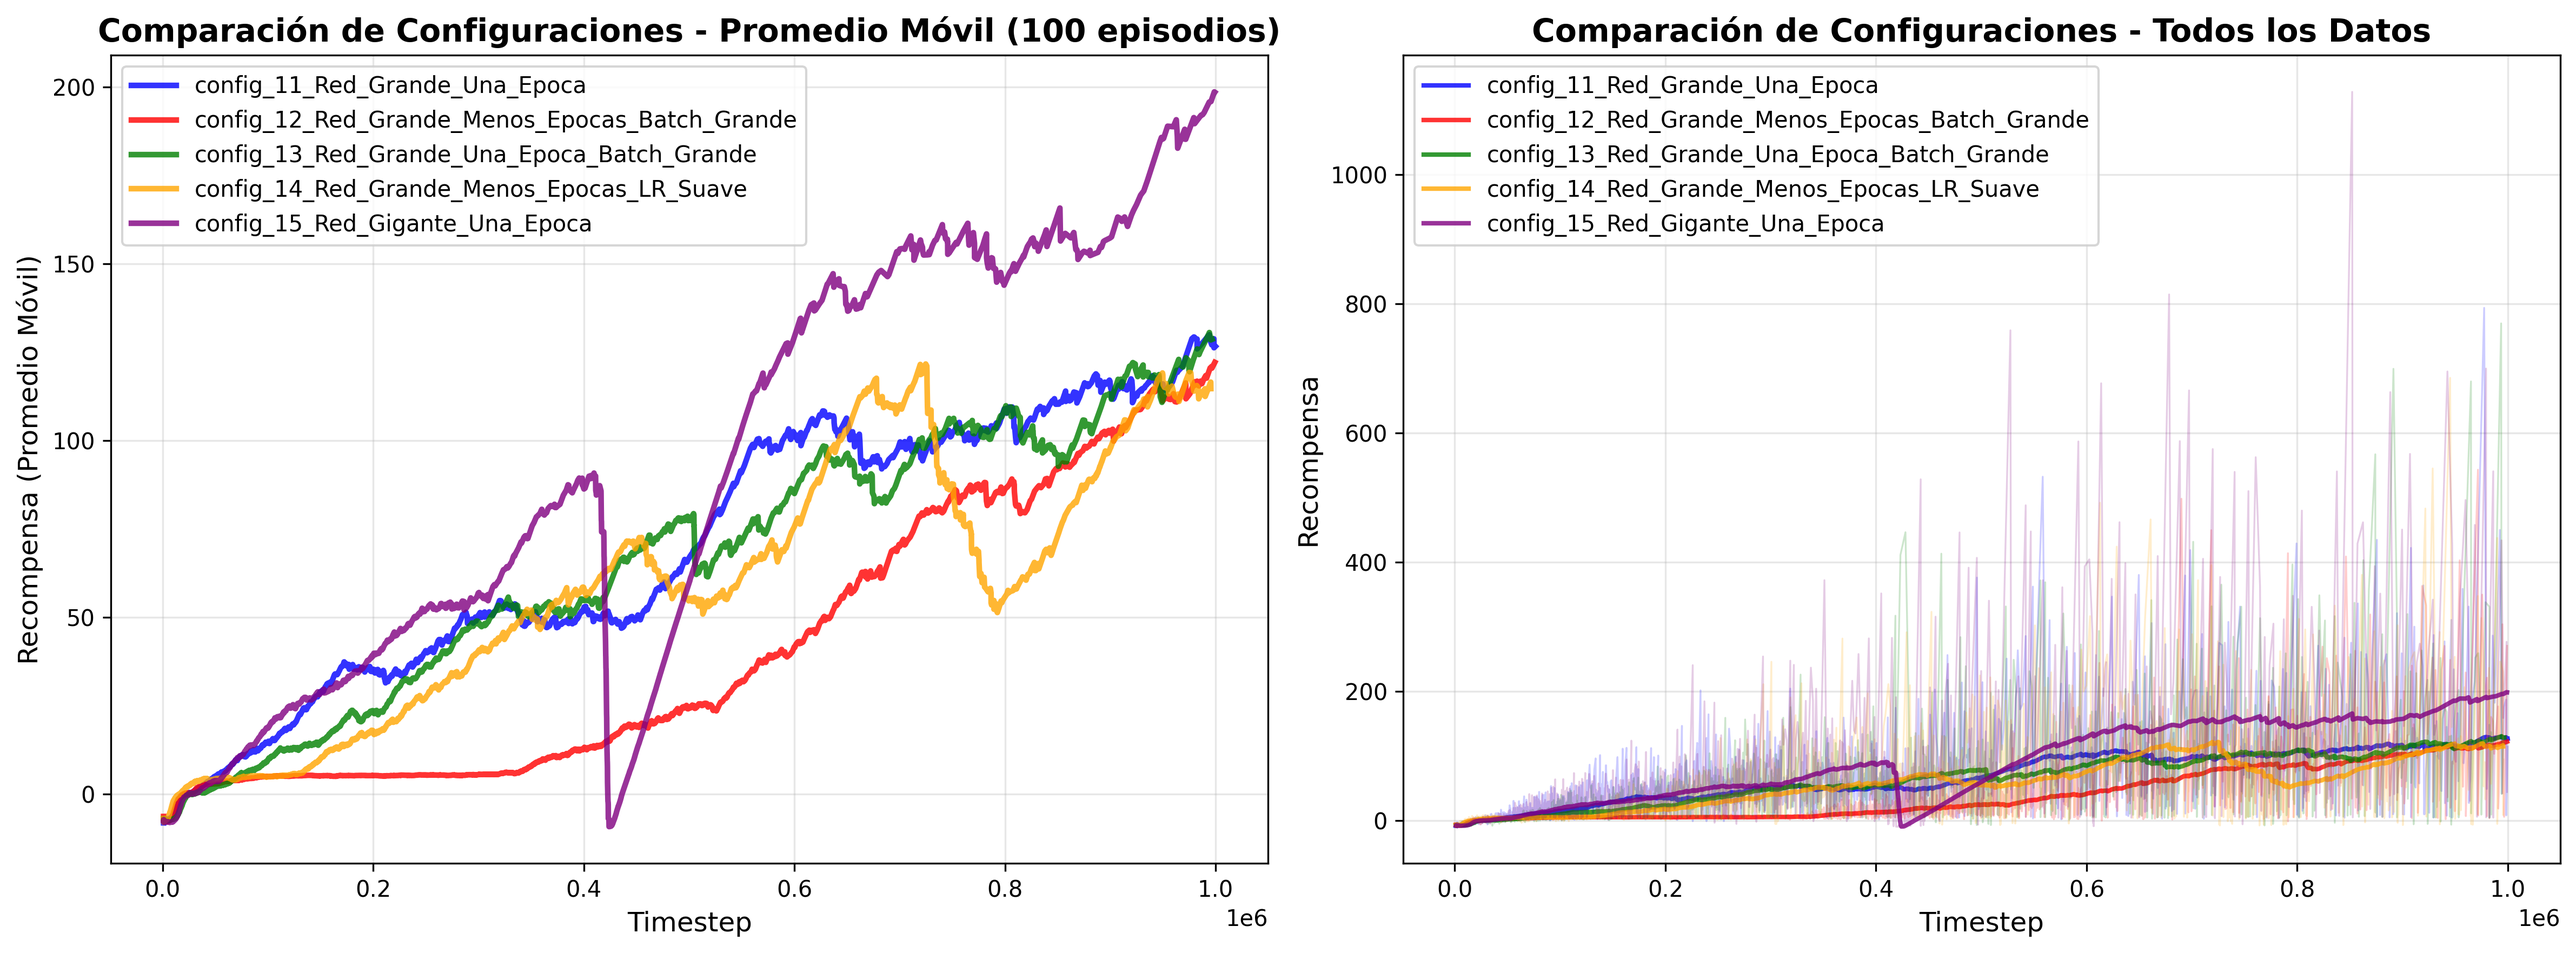
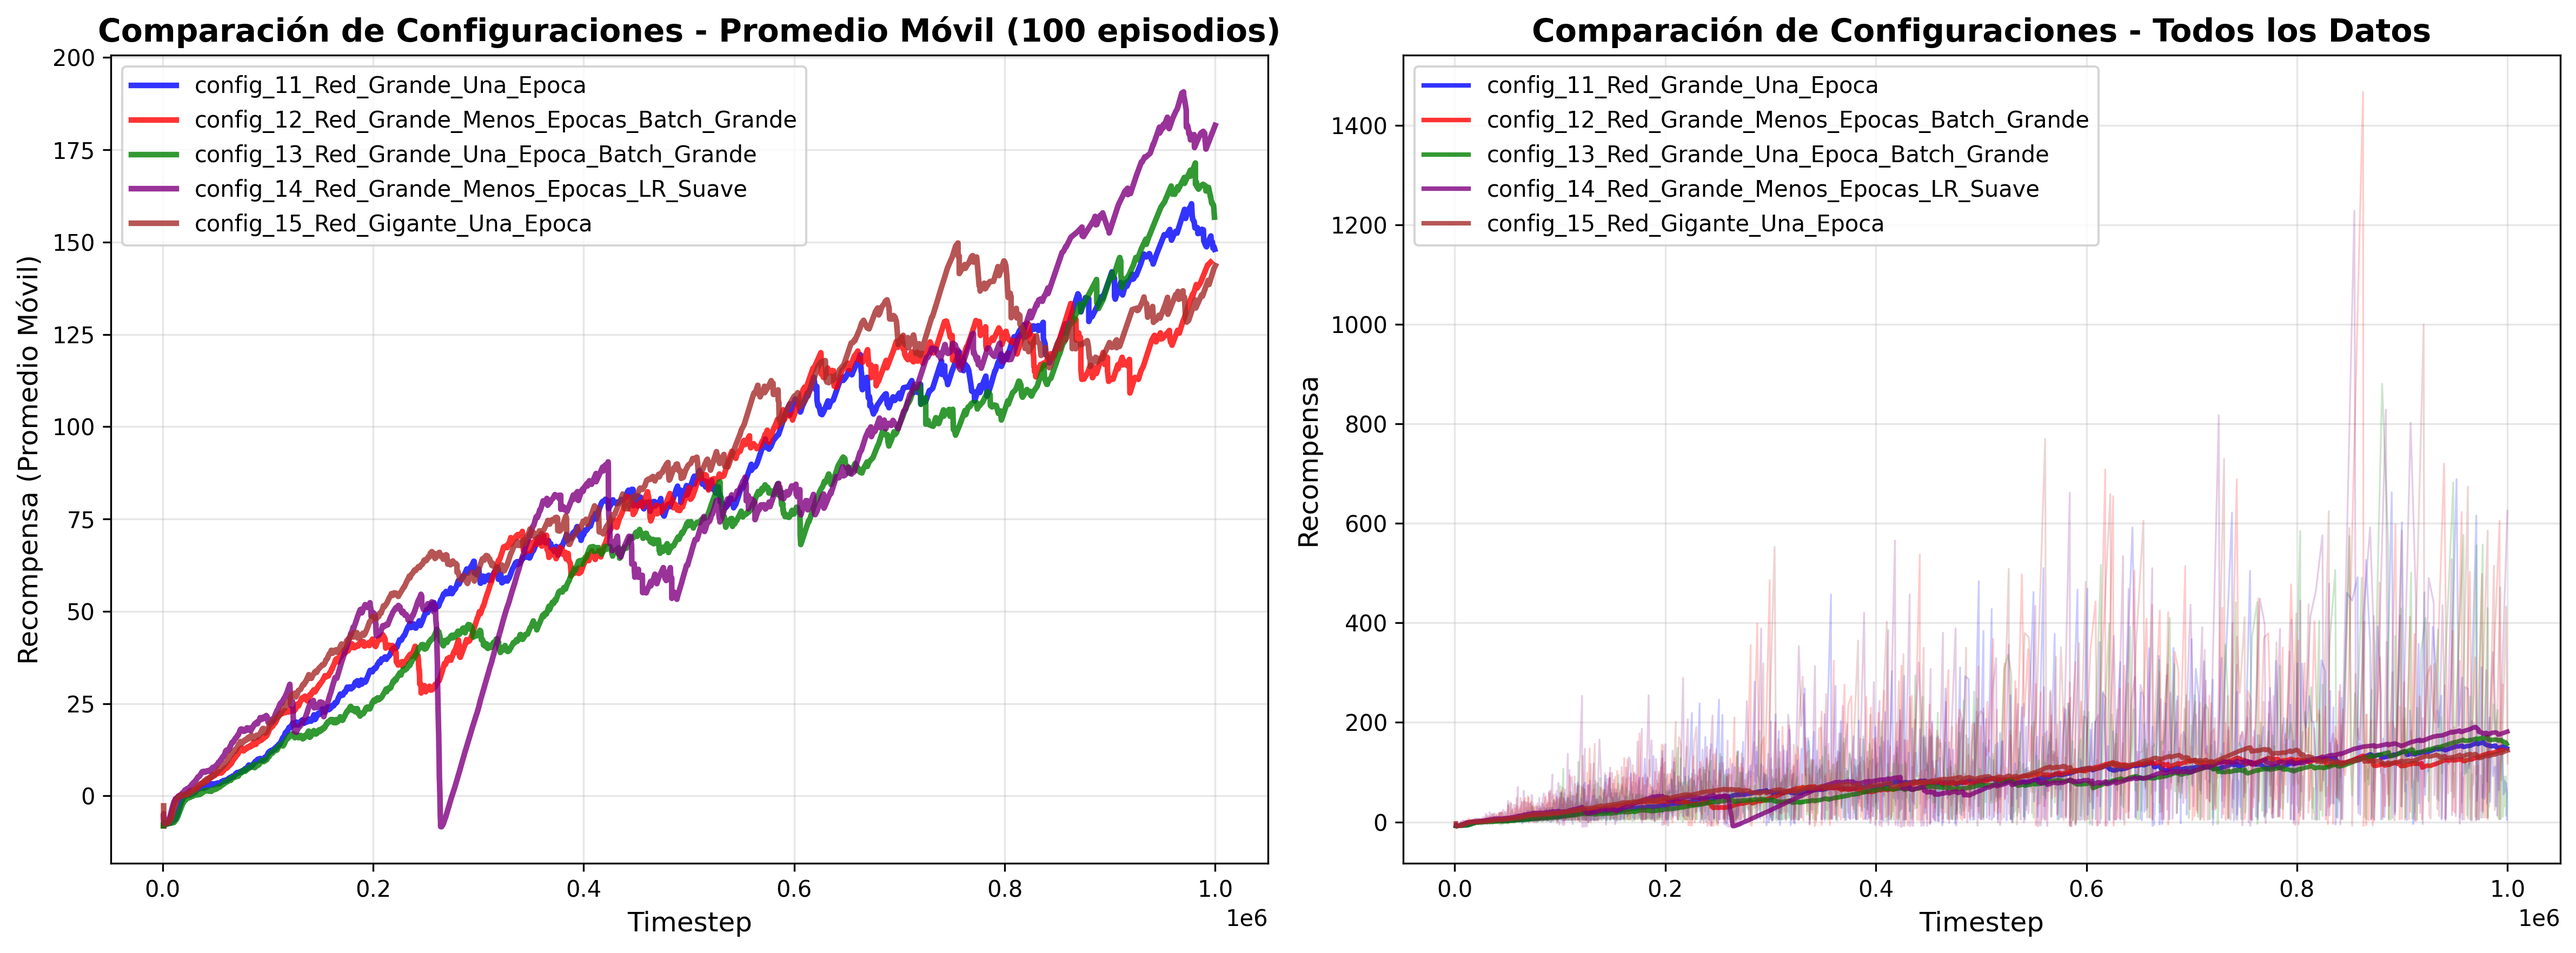
entrenando 13 con 20_000_000 timesteps

diff --git a/src/mainTrainFlappy.py b/src/mainTrainFlappy.py
@@ -42,107 +42,107 @@ HYPERPARAM_CONFIGS = [
 #        'hidden_size': 256,
 #        'batch_size': 64,
 #    },
+#    {
+#        'id': 2,
+#        'name': 'Mayor_Entropia',
+#        'learning_rate': 1e-4,
+#        'entropy_coef': 0.1,
+#        'n_epochs': 4,
+#        'hidden_size': 256,
+#        'batch_size': 64,
+#    },
+#    {
+#        'id': 3,
+#        'name': 'LR_Alto',
+#        'learning_rate': 3e-4,
+#        'entropy_coef': 0.05,
+#        'n_epochs': 4,
+#        'hidden_size': 256,
+#        'batch_size': 64,
+#    },
+#    {
+#        'id': 4,
+#        'name': 'Red_Grande',
+#        'learning_rate': 1e-4,
+#        'entropy_coef': 0.05,
+#        'n_epochs': 4,
+#        'hidden_size': 512,
+#        'batch_size': 64,
+#    },
+#    {
+#        'id': 5,
+#        'name': 'Mas_Epocas',
+#        'learning_rate': 1e-4,
+#        'entropy_coef': 0.05,
+#        'n_epochs': 8,
+#        'hidden_size': 256,
+#        'batch_size': 64,
+#    },
+#    {
+#        'id': 6,
+#        'name': 'Red_Grande_LR_Bajo',
+#        'learning_rate': 5e-5,   # más estable, pasos más chiquitos
+#        'entropy_coef': 0.05,
+#        'n_epochs': 4,
+#        'hidden_size': 512,
+#        'batch_size': 64,
+#    },
+#    {
+#        'id': 7,
+#        'name': 'Red_Grande_Mayor_Entropia',
+#        'learning_rate': 1e-4,
+#        'entropy_coef': 0.08,   # entre baseline (0.05) y config 2 (0.1)
+#        'n_epochs': 4,
+#        'hidden_size': 512,
+#        'batch_size': 64,
+#    },
+#    {
+#        'id': 8,
+#        'name': 'Red_Grande_Menos_Epocas',
+#        'learning_rate': 1e-4,
+#        'entropy_coef': 0.05,
+#        'n_epochs': 2,          # menos pasadas por buffer, menos overfitting
+#        'hidden_size': 512,
+#        'batch_size': 64,
+#    },
+#    {
+#        'id': 9,
+#        'name': 'Red_Grande_Batch_Grande',
+#        'learning_rate': 1e-4,
+#        'entropy_coef': 0.05,
+#        'n_epochs': 4,
+#        'hidden_size': 512,
+#        'batch_size': 128,      # verificar que sea <= N_STEPS * N_ENVS
+#    },
+#    {
+#        'id': 10,
+#        'name': 'Red_Grande_LR_Alto_Suave',
+#        'learning_rate': 2e-4,  # un intermedio entre 1e-4 y 3e-4
+#        'entropy_coef': 0.05,
+#        'n_epochs': 4,
+#        'hidden_size': 512,
+#        'batch_size': 64,
+#    },
+#    {
+#        'id': 11,
+#        'name': 'Red_Grande_Una_Epoca',
+#        'learning_rate': 1e-4,
+#        'entropy_coef': 0.05,
+#        'n_epochs': 1,          # Si 2 epochs funciona, ¿1 será mejor?
+#        'hidden_size': 512,
+#        'batch_size': 64,
+#    },
+#    {
+#        'id': 12,
+#        'name': 'Red_Grande_Menos_Epocas_Batch_Grande',
+#        'learning_rate': 1e-4,
+#        'entropy_coef': 0.05,
+#        'n_epochs': 2,          # Lo mejor de Config 8
+#        'hidden_size': 512,
+#        'batch_size': 128,      # Lo mejor de Config 9
+#    },
     {
-        'id': 2,
-        'name': 'Mayor_Entropia',
-        'learning_rate': 1e-4,
-        'entropy_coef': 0.1,
-        'n_epochs': 4,
-        'hidden_size': 256,
-        'batch_size': 64,
-    },
-    {
-        'id': 3,
-        'name': 'LR_Alto',
-        'learning_rate': 3e-4,
-        'entropy_coef': 0.05,
-        'n_epochs': 4,
-        'hidden_size': 256,
-        'batch_size': 64,
-    },
-    {
-        'id': 4,
-        'name': 'Red_Grande',
-        'learning_rate': 1e-4,
-        'entropy_coef': 0.05,
-        'n_epochs': 4,
-        'hidden_size': 512,
-        'batch_size': 64,
-    },
-    {
-        'id': 5,
-        'name': 'Mas_Epocas',
-        'learning_rate': 1e-4,
-        'entropy_coef': 0.05,
-        'n_epochs': 8,
-        'hidden_size': 256,
-        'batch_size': 64,
-    },
-    {
-        'id': 6,
-        'name': 'Red_Grande_LR_Bajo',
-        'learning_rate': 5e-5,   # más estable, pasos más chiquitos
-        'entropy_coef': 0.05,
-        'n_epochs': 4,
-        'hidden_size': 512,
-        'batch_size': 64,
-    },
-    {
-        'id': 7,
-        'name': 'Red_Grande_Mayor_Entropia',
-        'learning_rate': 1e-4,
-        'entropy_coef': 0.08,   # entre baseline (0.05) y config 2 (0.1)
-        'n_epochs': 4,
-        'hidden_size': 512,
-        'batch_size': 64,
-    },
-    {
-        'id': 8,
-        'name': 'Red_Grande_Menos_Epocas',
-        'learning_rate': 1e-4,
-        'entropy_coef': 0.05,
-        'n_epochs': 2,          # menos pasadas por buffer, menos overfitting
-        'hidden_size': 512,
-        'batch_size': 64,
-    },
-    {
-        'id': 9,
-        'name': 'Red_Grande_Batch_Grande',
-        'learning_rate': 1e-4,
-        'entropy_coef': 0.05,
-        'n_epochs': 4,
-        'hidden_size': 512,
-        'batch_size': 128,      # verificar que sea <= N_STEPS * N_ENVS
-    },
-    {
-        'id': 10,
-        'name': 'Red_Grande_LR_Alto_Suave',
-        'learning_rate': 2e-4,  # un intermedio entre 1e-4 y 3e-4
-        'entropy_coef': 0.05,
-        'n_epochs': 4,
-        'hidden_size': 512,
-        'batch_size': 64,
-    },
-    {
-        'id': 11,
-        'name': 'Red_Grande_Una_Epoca',
-        'learning_rate': 1e-4,
-        'entropy_coef': 0.05,
-        'n_epochs': 1,          # Si 2 epochs funciona, ¿1 será mejor?
-        'hidden_size': 512,
-        'batch_size': 64,
-    },
-    {
-        'id': 12,
-        'name': 'Red_Grande_Menos_Epocas_Batch_Grande',
-        'learning_rate': 1e-4,
-        'entropy_coef': 0.05,
-        'n_epochs': 2,          # Lo mejor de Config 8
-        'hidden_size': 512,
-        'batch_size': 128,      # Lo mejor de Config 9
-    },
-    {
-        'id': 13,
+        'id': 13, #id original = 13
         'name': 'Red_Grande_Una_Epoca_Batch_Grande',
         'learning_rate': 1e-4,
         'entropy_coef': 0.05,
@@ -150,24 +150,24 @@ HYPERPARAM_CONFIGS = [
         'hidden_size': 512,
         'batch_size': 128,      # Batch grande para estabilidad
     },
-    {
-        'id': 14,
-        'name': 'Red_Grande_Menos_Epocas_LR_Suave',
-        'learning_rate': 1.5e-4, # Intermedio entre 1e-4 y 2e-4
-        'entropy_coef': 0.05,
-        'n_epochs': 2,          # Fórmula ganadora de Config 8
-        'hidden_size': 512,
-        'batch_size': 64,
-    },
-    {
-        'id': 15,
-        'name': 'Red_Gigante_Una_Epoca',
-        'learning_rate': 8e-5,   # LR más bajo para red más grande
-        'entropy_coef': 0.05,
-        'n_epochs': 1,          # Mínimo overfitting
-        'hidden_size': 1024,    # Red aún más grande
-        'batch_size': 64,
-    }
+#    {
+#        'id': 14,
+#        'name': 'Red_Grande_Menos_Epocas_LR_Suave',
+#        'learning_rate': 1.5e-4, # Intermedio entre 1e-4 y 2e-4
+#        'entropy_coef': 0.05,
+#        'n_epochs': 2,          # Fórmula ganadora de Config 8
+#        'hidden_size': 512,
+#        'batch_size': 64,
+#    },
+#    {
+#        'id': 15,
+#        'name': 'Red_Gigante_Una_Epoca',
+#        'learning_rate': 8e-5,   # LR más bajo para red más grande
+#        'entropy_coef': 0.05,
+#        'n_epochs': 1,          # Mínimo overfitting
+#        'hidden_size': 1024,    # Red aún más grande
+#        'batch_size': 64,
+#    }
     
 ]
 

diff --git a/src/plots/plotRewards.py b/src/plots/plotRewards.py
@@ -319,13 +319,13 @@ def plot_compare_configs(window_size=100, save_path=None):
         save_path: ruta para guardar la figura (opcional)
     """
     config_names = [
-        #"config_11_Red_Grande_Una_Epoca",
-        #"config_12_Red_Grande_Menos_Epocas_Batch_Grande",
-        #"config_13_Red_Grande_Una_Epoca_Batch_Grande",
+        "config_11_Red_Grande_Una_Epoca",
+        "config_12_Red_Grande_Menos_Epocas_Batch_Grande",
+        "config_13_Red_Grande_Una_Epoca_Batch_Grande",
         #"config_8_Red_Grande_Menos_Epocas",
         #"config_9_Red_Grande_Batch_Grande",
-        #"config_14_Red_Grande_Menos_Epocas_LR_Suave",
-        #"config_15_Red_Gigante_Una_Epoca",
+        "config_14_Red_Grande_Menos_Epocas_LR_Suave",
+        "config_15_Red_Gigante_Una_Epoca",
         #"config_4_Red_Grande"
         #"config_6_Red_Grande_LR_Bajo",
         #"config_7_Red_Grande_Mayor_Entropia",
@@ -335,11 +335,15 @@ def plot_compare_configs(window_size=100, save_path=None):
         # "config_16_Red_Grande_Menos_Epocas",
         # "config_17_Red_Grande_Una_Epoca",
         # "config_18_Red_Gigante_Una_Epoca"
-        "config_1_Baseline",
-        "config_1_Baseline_new"
+        #"config_1_Baseline",
+        #"config_2_Mayor_Entropia",
+        #"config_3_LR_Alto",
+        #"config_4_Red_Grande",
+        #"config_5_Mas_Epocas"
+        #"config_1_Baseline_new"
     ]
     
-    colors = ['blue', 'red']
+    colors = ['blue', 'red', "green", "purple", "brown"]
     #colors = ['blue', 'red', 'green', 'orange', 'purple', 'brown', 'cyan', 'magenta', 'olive', 'pink', 'gray', 'teal', 'navy']
     
     fig, axes = plt.subplots(1, 2, figsize=(16, 6))

diff --git a/src/config.py b/src/config.py
@@ -22,7 +22,7 @@ class Config:
     MAX_GRAD_NORM = 0.5
 
     # TRAINING
-    TOTAL_TIMESTEPS = 1_000_000
+    TOTAL_TIMESTEPS = 20_000_000
     SAVE_FREQ = 50_000 
     LOG_FREQ = 2048
     EVAL_FREQ = 25_000
